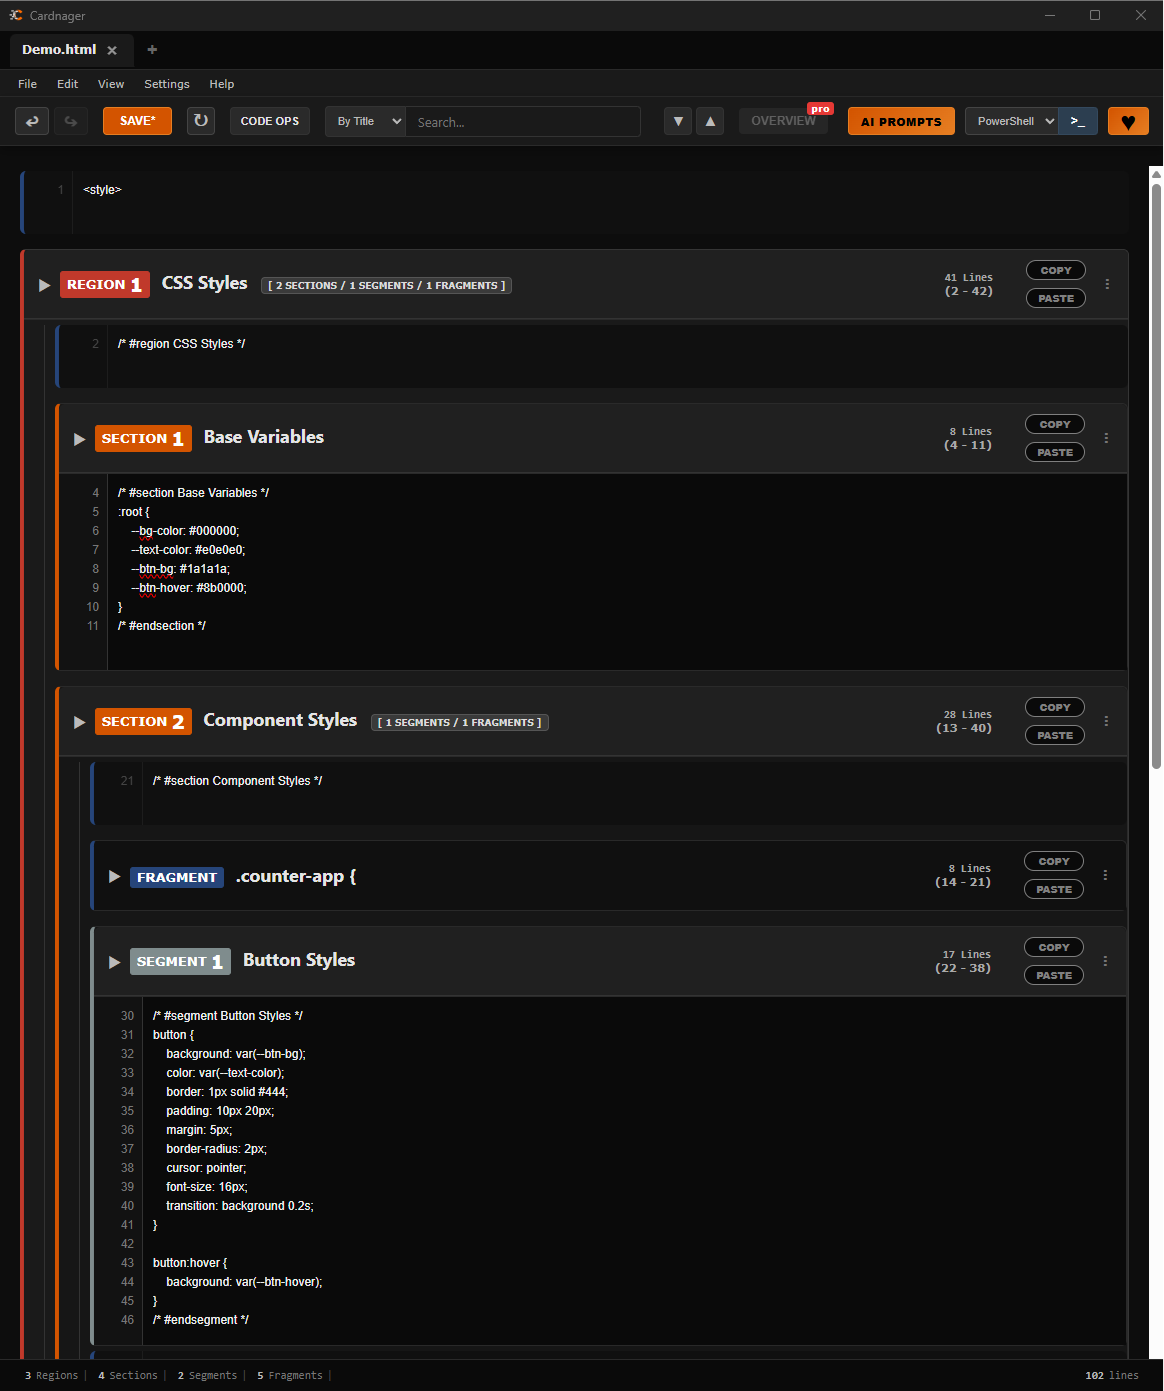
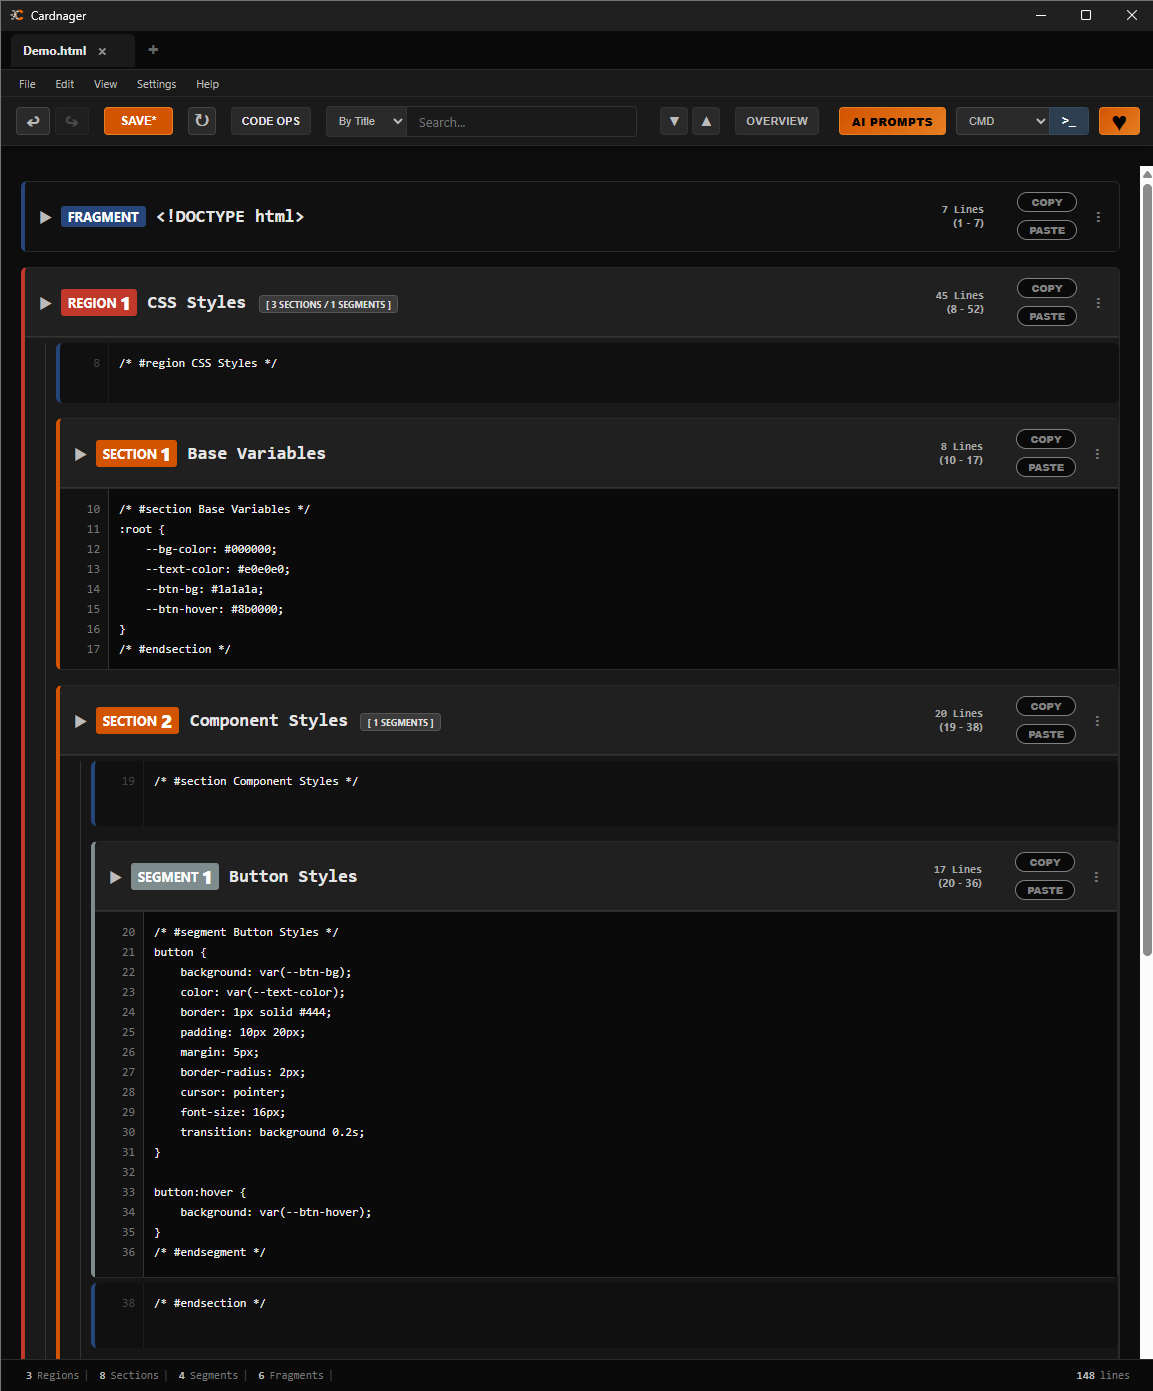
Update screenshot, organize assets, add SmartScreen warning

diff --git a/README.md b/README.md
@@ -73,6 +73,8 @@ The same pattern applies to `#section` / `#endsection` and `#segment` / `#endseg
 
 Windows only. No installation required after setup.
 
+> **Note:** Windows may show a SmartScreen warning when running the installer. This is normal for unsigned applications. Click **"More info"** → **"Run anyway"** to proceed. The app is open source — you can review the full source code in this repository.
+
 ---
 
 ## Community